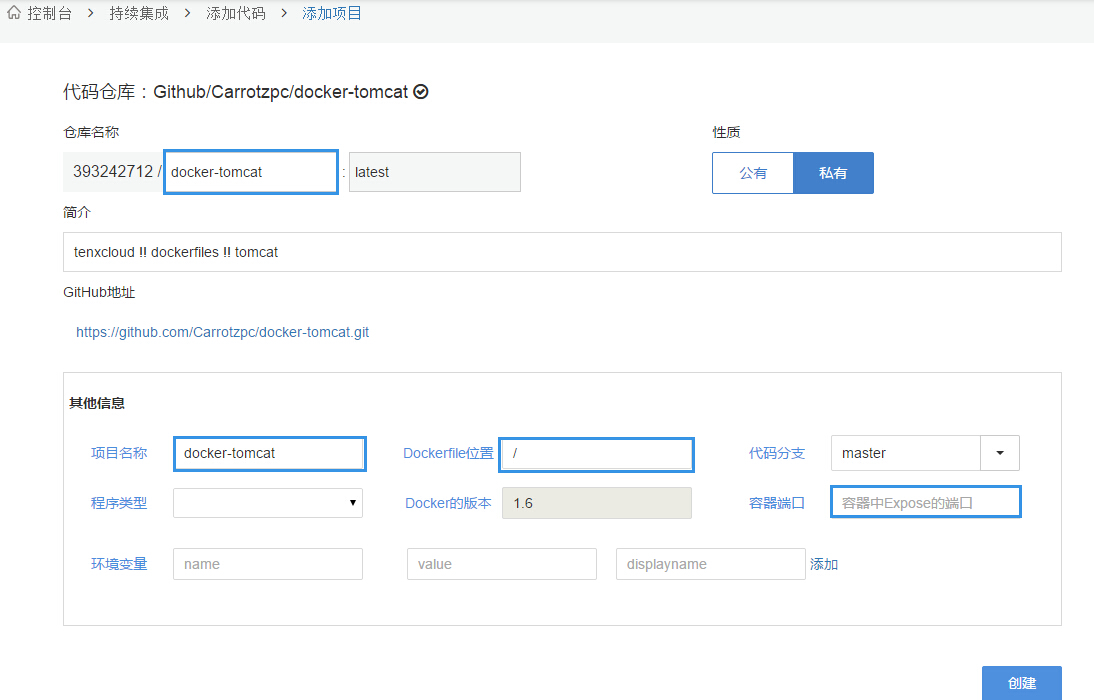
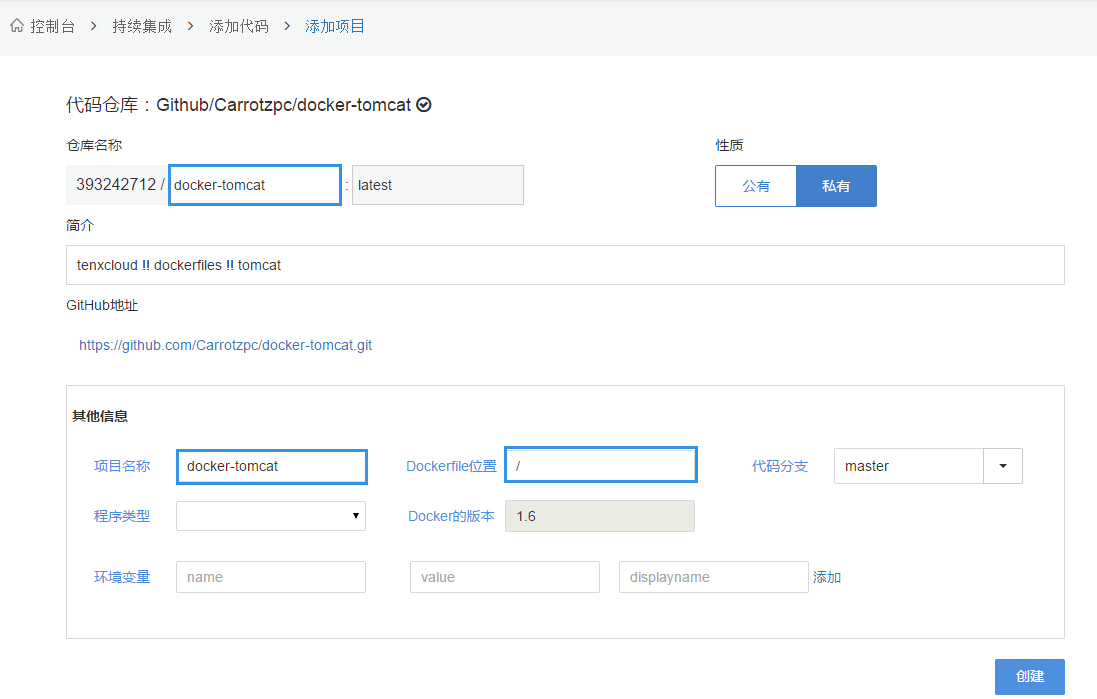
change ci add project

diff --git a/ci/project-fill.md b/ci/project-fill.md
@@ -14,10 +14,13 @@
 | 代码分支       | 默认均为master | 不可编辑 |
 | 程序类型       | 编写项目的语言 | 可选 |
 | Docker的版本   | 目前默认均为v1.6 | 不可编辑 |
-| 容器端口       | 要与Dockerfile中的端口一致| 必填 |
 | 环境变量       | 配置项目相关环境变量，可添加多个 | 可选 |
 
-注：源代码中一定要有Dockerfile，否则构建会失败，可以点击GitHub地址查看自己的项目。下面是**docker-tomcat**项目**/8.0/**下的Dockerfile：
+* 注：
+ * 源代码中一定要有Dockerfile，否则构建会失败，可以点击GitHub地址查看自己的项目。
+ * 系统会自动获取**Dokerfile**中EXPOSE的**容器端口**，如需重新设定，在项目构建完成后，在**项目详情页->操作->修改镜像**中
+
+下面是**docker-tomcat**项目**/8.0/**下的Dockerfile：
 
 ```
 FROM tifayuki/java:7
@@ -50,7 +53,7 @@ CMD ["/run.sh"]
 ```
 关于如何编写Dokerfile，可以参考英文官方文档 -> [编写Dockerfile](http://docs.docker.com/reference/builder/)，我们后续会提供中文版，并随时提供技术支持。
 
-我们在**Dockerfile位置**中填写**/8.0/**，**容器端口**中填写**Dokerfile**中EXPOSE的端口8080，并填写环境变量，如下图：
+我们在**Dockerfile位置**中填写**/8.0/**，并填写环境变量，如下图：
 
 ![addproject2](../images/ci/ci-addproject2.jpg)
 
